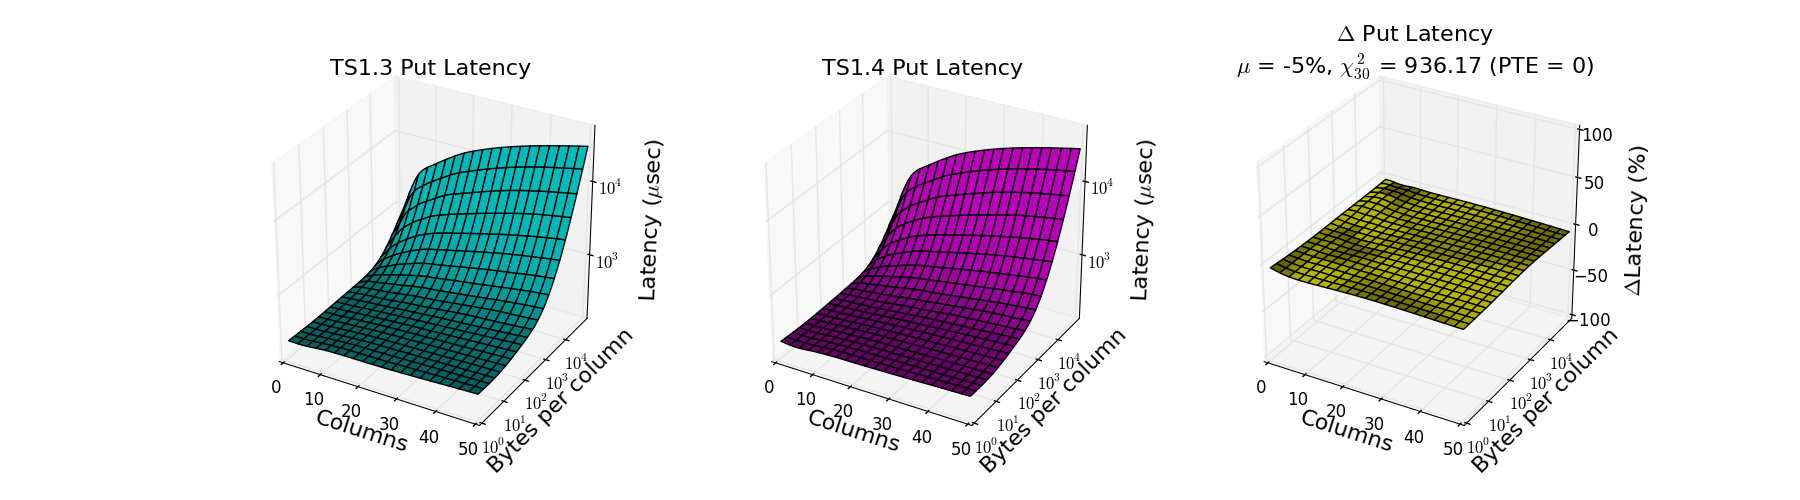
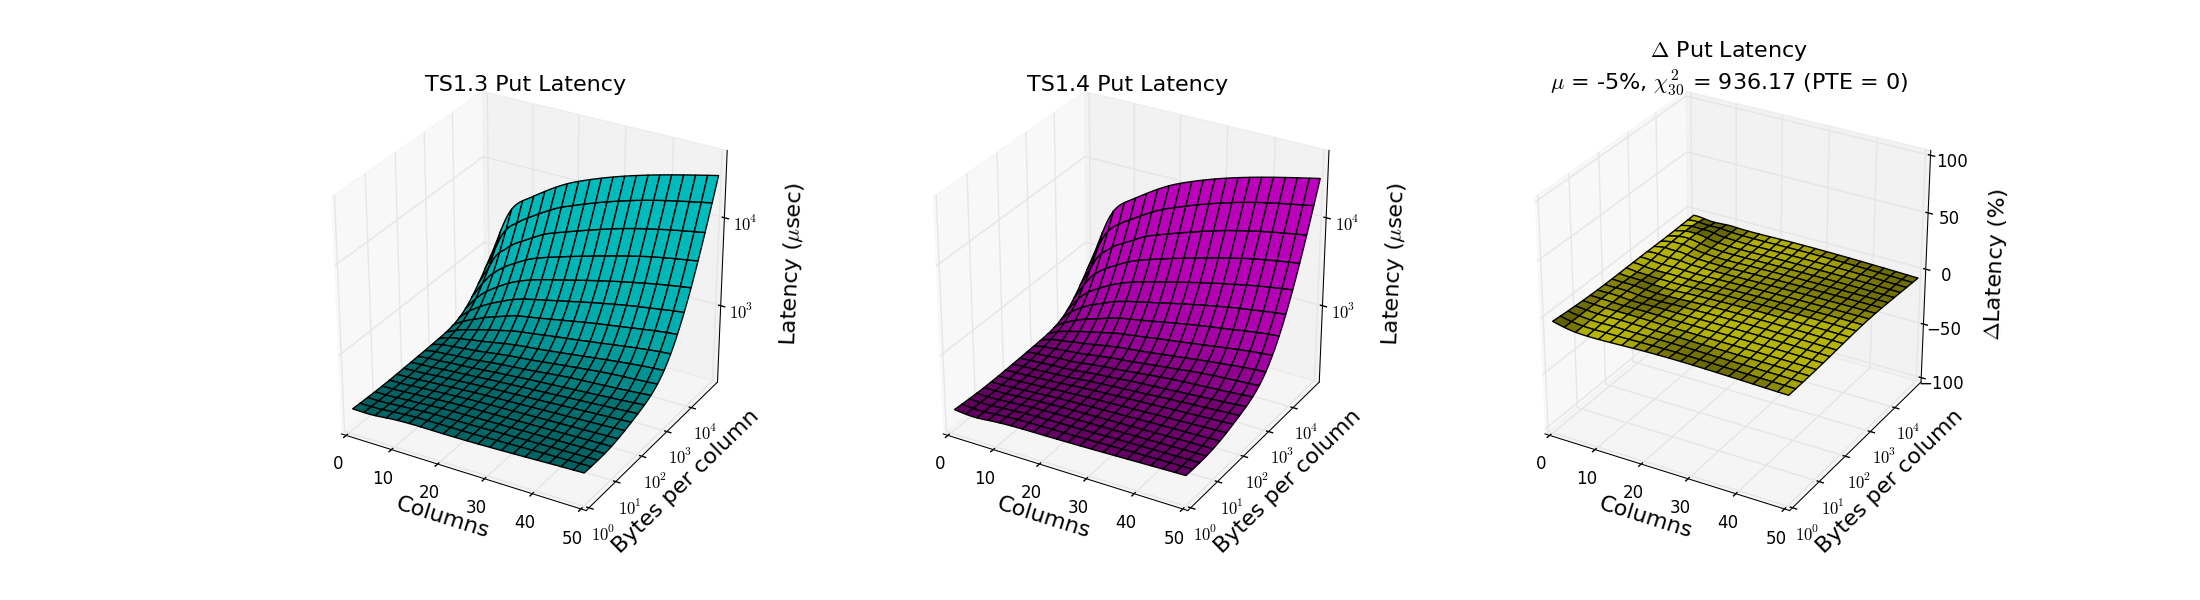
Regen images a bit larger

diff --git a/python_scripts/tslatency_cmp_nval1_nval3.py b/python_scripts/tslatency_cmp_nval1_nval3.py
@@ -2,6 +2,7 @@ import numpy as np
 import matplotlib.pyplot as plt
 import scipy.interpolate as int;
 from mpl_toolkits.mplot3d import Axes3D;
+import os
 
 def getLine(label, content):
   for line in content:
@@ -103,8 +104,10 @@ def makePlot(ax, x, y, z, Color, Title=None):
   retick(ax, 'y')
   retick(ax, 'z')
 
-x1, y1, z1 = getProfilerOutput('../data/tslatency_2d_nval1.txt')
-x2, y2, z2 = getProfilerOutput('../data/tslatency_2d_nval3.txt')
+dataDir = str(os.environ['RIAK_TEST_BASE']) + '/data/'
+
+x1, y1, z1 = getProfilerOutput(dataDir + 'tslatency_2d_nval1.txt')
+x2, y2, z2 = getProfilerOutput(dataDir + 'tslatency_2d_nval3.txt')
 
 fig = plt.figure()
 fig.set_facecolor('white');
